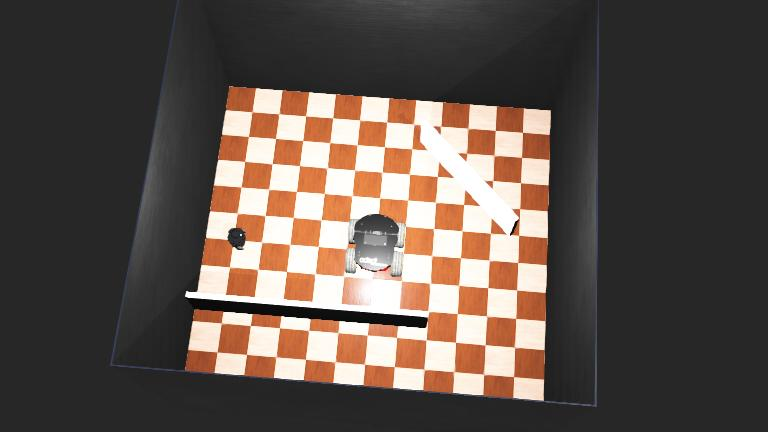
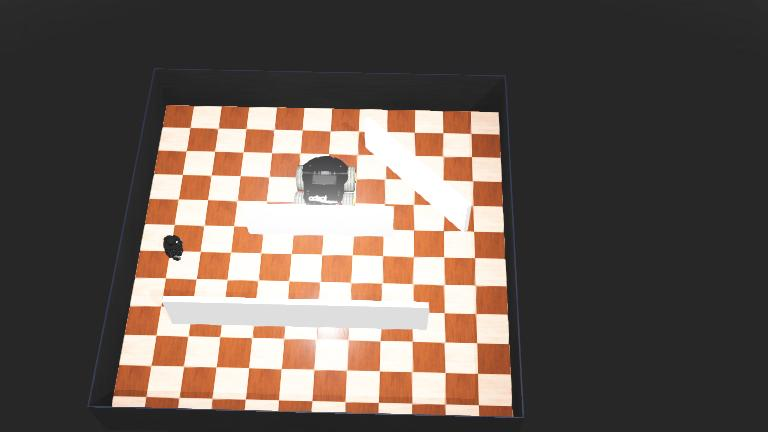
Updated to the best possible dynamic filter possible.

diff --git a/webot_graphSLAM.py b/webot_graphSLAM.py
@@ -1,16 +1,7 @@
-"""Full GraphSLAM controller — logic adapted from tawan-slam/slam.py.
-
-Sensors, motors, and (optional) automatic movement are wired inline here;
-this matches the existing PCR style rather than introducing a devices module.
-The SLAM math lives in ``mapping.graphSLAM`` (ported from tawan-slam/
-mapping/graph_omg.py) and uses ``mapping.icp.icp_match`` for loop closure.
-"""
-
 from dotenv import load_dotenv
 load_dotenv()
 
 from mapping.graphSLAM import GraphSession, draw_graph_map
-from image_processing.blob_detection import compute_motion_mask, get_dynamic_lidar_indices
 
 import os, sys, cv2
 import math
@@ -32,11 +23,8 @@ ROTATION_SIGN = 0.89
 
 # ── Manual control ───────────────────────────────────────────────────────────
 MAX_SPEED     = 6.28
-FORWARD_SPEED = MAX_SPEED * 0.55
-TURN_SPEED    = MAX_SPEED * 0.35
-
-# Webots TurtleBot3 camera is 60° wide; getFov() returns this at runtime.
-CAMERA_DEVICE_NAME = "mycamera"
+FORWARD_SPEED = MAX_SPEED * 0.85
+TURN_SPEED    = MAX_SPEED * 0.55
 
 # ── Sensor noise model (NOISE_ENABLED=False for ideal-sensor baseline) ──────
 NOISE_ENABLED              = True
@@ -53,14 +41,6 @@ os.environ["WEBOTS_CONTROLLER_URL"] = "TurtleBot3Burger"
 
 # ── Small helpers ────────────────────────────────────────────────────────────
 
-def _to_gray(bgra_arr):
-    """BGRA uint8 → greyscale uint8 via integer luminosity weights."""
-    b = bgra_arr[:, :, 0].astype(np.uint32)
-    g = bgra_arr[:, :, 1].astype(np.uint32)
-    r = bgra_arr[:, :, 2].astype(np.uint32)
-    return ((r * 306 + g * 601 + b * 117) >> 10).astype(np.uint8)
-
-
 def _build_lidar_angles(ray_count, lidar_fov):
     """Angle (rad, left = positive) for each lidar ray index — Webots sweep order."""
     if ray_count <= 0:
@@ -72,6 +52,86 @@ def _build_lidar_angles(ray_count, lidar_fov):
         ],
         dtype=float,
     )
+
+
+# ── LiDAR-based dynamic ray filter (360°) ───────────────────────────────────
+LIDAR_DYNAMIC_CHANGE_THRESHOLD = 0.15   # metres — must exceed expected ego-residual + sensor noise
+
+def _lidar_dynamic_mask(
+    prev_ranges,
+    prev_pose,
+    curr_ranges,
+    curr_pose,
+    lidar_angles,
+    max_range,
+    change_threshold=LIDAR_DYNAMIC_CHANGE_THRESHOLD,
+):
+    """Per-ray change detector that compensates for ego-motion.
+
+    Projects the previous scan's body-frame points into the current body
+    frame using the IMU-yaw + odometry delta, re-bins them by current ray
+    index, and flags rays whose actual range differs from the predicted
+    range by more than ``change_threshold``.
+
+    Returns a boolean array of length ``len(curr_ranges)`` (True = dynamic).
+    Falls back to all-False on the first tick or when ray-counts disagree.
+    """
+    n = len(curr_ranges)
+    if prev_ranges is None or len(prev_ranges) != n or prev_pose is None:
+        return np.zeros(n, dtype=bool)
+
+    prev_r = np.asarray(prev_ranges, dtype=float)
+    curr_r = np.asarray(curr_ranges, dtype=float)
+    angles = np.asarray(lidar_angles, dtype=float)
+
+    prev_valid = np.isfinite(prev_r) & (prev_r > 0.0) & (prev_r < max_range)
+    if not prev_valid.any():
+        return np.zeros(n, dtype=bool)
+
+    # Body-frame xy of previous returns.
+    px = prev_r * np.cos(angles)
+    py = prev_r * np.sin(angles)
+
+    # Transform prev body frame → current body frame.
+    # rotation by (prev_theta - curr_theta), translation = prev origin
+    # expressed in current body frame.
+    dtheta = prev_pose[2] - curr_pose[2]
+    c_d, s_d = math.cos(dtheta), math.sin(dtheta)
+    dx_w = prev_pose[0] - curr_pose[0]
+    dy_w = prev_pose[1] - curr_pose[1]
+    c_c, s_c = math.cos(curr_pose[2]), math.sin(curr_pose[2])
+    tx =  c_c * dx_w + s_c * dy_w
+    ty = -s_c * dx_w + c_c * dy_w
+    qx = c_d * px - s_d * py + tx
+    qy = s_d * px + c_d * py + ty
+
+    pred_range = np.hypot(qx, qy)
+    pred_angle = np.arctan2(qy, qx)
+
+    # Map predicted angles back to ray indices. Webots sweeps high → low,
+    # so step is negative; handle either ordering generically.
+    if n > 1:
+        step = angles[1] - angles[0]
+        if step == 0.0:
+            return np.zeros(n, dtype=bool)
+        idx_f = (pred_angle - angles[0]) / step
+    else:
+        idx_f = np.zeros_like(pred_angle)
+    idx = np.round(idx_f).astype(int)
+    in_range = (idx >= 0) & (idx < n) & prev_valid
+
+    # Reduce: keep nearest predicted return per current ray bin.
+    predicted = np.full(n, np.inf, dtype=float)
+    for i in np.where(in_range)[0]:
+        j = int(idx[i])
+        if pred_range[i] < predicted[j]:
+            predicted[j] = pred_range[i]
+
+    curr_valid = np.isfinite(curr_r) & (curr_r > 0.0) & (curr_r < max_range)
+    pred_valid = np.isfinite(predicted)
+    both_valid = curr_valid & pred_valid
+    diff = np.abs(curr_r - predicted)
+    return both_valid & (diff > change_threshold)
 
 
 def run_robot():
@@ -108,16 +168,6 @@ def run_robot():
     imu = robot.getDevice("inertial unit")
     imu.enable(timestep)
 
-    # ── Camera (optional — graceful fallback if absent) ───────────────────
-    camera     = robot.getDevice(CAMERA_DEVICE_NAME)
-    has_camera = camera is not None
-    if has_camera:
-        camera.enable(timestep)
-        cam_width  = camera.getWidth()
-        cam_height = camera.getHeight()
-        cam_fov    = camera.getFov()
-    prev_gray = None
-
     # ── Noise RNG + IMU helper ────────────────────────────────────────────
     rng = np.random.default_rng(NOISE_SEED)
 
@@ -146,6 +196,10 @@ def run_robot():
     odom_x = 0.0
     odom_y = 0.0
     odom_theta = _get_imu_yaw()
+
+    # ── Previous-tick state for the LiDAR-based dynamic-ray filter ──────
+    prev_lidar_ranges = None
+    prev_lidar_pose   = None
 
     # ── Pose-graph session (tawan-slam logic) ─────────────────────────────
     session = GraphSession(
@@ -222,31 +276,20 @@ def run_robot():
             ranges_count = len(ranges)
             lidar_angles = _build_lidar_angles(ranges_count, lidar_fov)
 
-        # ── Camera motion mask → dynamic-ray filter ──────────────────────
+        # ── LiDAR-based 360° dynamic detection ───────────────────────────
         # Dynamic rays are set to inf so mapping.graphSLAM.scan_to_points
         # drops them (invalid) — moving objects never enter the SLAM map.
-        if has_camera:
-            raw = camera.getImage()
-            if raw:
-                bgra = np.frombuffer(raw, dtype=np.uint8).reshape(
-                    (cam_height, cam_width, 4)
-                )
-                curr_gray = _to_gray(bgra)
-                if prev_gray is not None:
-                    motion_mask  = compute_motion_mask(prev_gray, curr_gray, threshold=20)
-                    dynamic_mask = get_dynamic_lidar_indices(
-                        motion_mask, cam_fov, lidar_angles, cam_width
-                    )
-                else:
-                    dynamic_mask = np.zeros(ranges_count, dtype=bool)
-                prev_gray = curr_gray
-            else:
-                dynamic_mask = np.zeros(ranges_count, dtype=bool)
-        else:
-            dynamic_mask = np.zeros(ranges_count, dtype=bool)
+        lidar_dyn_mask = _lidar_dynamic_mask(
+            prev_lidar_ranges, prev_lidar_pose,
+            ranges, pose_vec,
+            lidar_angles, lidar_max_range,
+        )
+        # Cache the *raw* (unfiltered) scan + pose for next tick's predictor.
+        prev_lidar_ranges = list(ranges)
+        prev_lidar_pose   = pose_vec.copy()
 
         scan_array = np.asarray(ranges, dtype=float).copy()
-        scan_array[dynamic_mask] = float('inf')
+        scan_array[lidar_dyn_mask] = float('inf')
 
         # ── GraphSLAM update ─────────────────────────────────────────────
         optimized = session.step(pose_vec, scan_array)
@@ -295,9 +338,6 @@ def run_robot():
                     (10, 50), cv2.FONT_HERSHEY_SIMPLEX, 0.6, (0, 255, 0), 1)
         cv2.putText(live_map, f"Loop closures: {num_lc}",
                     (10, 75), cv2.FONT_HERSHEY_SIMPLEX, 0.6, (0, 220, 0), 1)
-        if has_camera:
-            cv2.putText(live_map, "Sensor fusion: ON",
-                        (10, 100), cv2.FONT_HERSHEY_SIMPLEX, 0.5, (255, 200, 0), 1)
 
         cv2.imshow("Full GraphSLAM Map", live_map)
 

diff --git a/mapping/graphSLAM.py b/mapping/graphSLAM.py
@@ -1,21 +1,3 @@
-"""Pose-graph SLAM ported from tawan-slam/mapping/graph_omg.py.
-
-Structure and algorithm follow the reference implementation:
-    - Node / Edge primitives.
-    - GraphSLAM: Gauss-Newton optimiser (numerical Jacobians, scalar weights).
-      Node 0 is anchored with a large weight rather than being removed from the
-      state — matches the reference behaviour.
-    - GraphSession: online driver that adds a keyframe whenever the robot has
-      moved / rotated past a threshold, builds odometry edges, and attempts two
-      loop-closure strategies per tick:
-        1. Proximity to node 0 (once past a warm-up).
-        2. ICP of the current lidar scan against any older, nearby node.
-      Any successful loop closure triggers a full graph optimisation.
-
-External-library policy: numpy only — no scipy / sklearn / cv2 geometry.
-cv2.imshow / cv2.waitKey / cv2.putText stay in the caller.
-"""
-
 from __future__ import annotations
 
 import math
@@ -25,9 +7,6 @@ from typing import Literal, Optional
 import numpy as np
 
 from .icp import icp_match
-
-
-# ── SE(2) helpers ────────────────────────────────────────────────────────────
 
 def wrap_angle(a: float) -> float:
     return math.atan2(math.sin(a), math.cos(a))
@@ -226,9 +205,13 @@ class GraphSession:
         odom_weight: float = 1.0,
         loop_weight: float = 5.0,
         optimize_iterations: int = 10,
+        min_anchor_translation: float = 0.02,
+        allow_rotation_only_keyframes: bool = False,
     ) -> None:
         self.node_dist_thresh = node_dist_thresh
         self.node_angle_thresh = node_angle_thresh
+        self.min_anchor_translation = min_anchor_translation
+        self.allow_rotation_only_keyframes = allow_rotation_only_keyframes
         self.loop_radius = loop_radius
         self.loop_warmup_nodes = loop_warmup_nodes
         self.icp_radius = icp_radius
@@ -256,15 +239,35 @@ class GraphSession:
     # ---- helpers ----------------------------------------------------------
 
     def _should_add(self, odom: np.ndarray) -> bool:
+        """Translation-first keyframe gate.
+
+        A new keyframe is only inserted when the robot has translated past
+        ``node_dist_thresh``. Rotation alone never triggers a keyframe by
+        default — pure in-place rotation would otherwise stack near-duplicate
+        scans at slightly drifting (x, y) (IMU + shared-mode encoder noise)
+        and smear the rendered map. The angle threshold still fires as a
+        secondary trigger, but only once the robot has *also* moved at least
+        ``min_anchor_translation`` since the last keyframe (so curving paths
+        get rotation-spaced keyframes; standing-and-spinning does not).
+
+        Set ``allow_rotation_only_keyframes=True`` to recover the original
+        tawan-slam behaviour for debugging.
+        """
         if self._last_odom_pose is None:
             return True
         dx = odom[0] - self._last_odom_pose[0]
         dy = odom[1] - self._last_odom_pose[1]
-        dtheta = wrap_angle(odom[2] - self._last_odom_pose[2])
-        return (
-            math.hypot(dx, dy) >= self.node_dist_thresh
-            or abs(dtheta) >= self.node_angle_thresh
-        )
+        translation = math.hypot(dx, dy)
+        dtheta = abs(wrap_angle(odom[2] - self._last_odom_pose[2]))
+
+        if translation >= self.node_dist_thresh:
+            return True
+        if dtheta >= self.node_angle_thresh and (
+            self.allow_rotation_only_keyframes
+            or translation >= self.min_anchor_translation
+        ):
+            return True
+        return False
 
     def _cached_points(self, node_id: int) -> Optional[np.ndarray]:
         if node_id in self._scan_points_cache:

diff --git a/mapping/icp.py b/mapping/icp.py
@@ -1,11 +1,3 @@
-"""Lu & Milios style 2-D ICP.
-
-Ported from https://github.com/richardos/icp but without sklearn:
-nearest-neighbour search is a vectorised numpy argmin. Exposes ``icp_match``
-which wraps ``icp`` with an initial-guess warm start and a Kabsch recovery of
-the full (init + refinement) SE(2) transform plus a mean residual.
-"""
-
 from __future__ import annotations
 
 import math

diff --git a/AutomaticMovement/back_and_forth.py b/AutomaticMovement/back_and_forth.py
@@ -1,6 +1,6 @@
 """
 back_and_forth.py — Pioneer 3-AT controller that drives forward and backward
-every 5 seconds in a continuous loop.
+every 2 seconds in a continuous loop.
 """
 
 from dotenv import load_dotenv
@@ -17,8 +17,8 @@ sys.path.append(os.path.join(webots_home, "lib", "controller", "python"))
 from controller import Robot  # type: ignore
 
 MAX_SPEED = 6.28
-DRIVE_SPEED = MAX_SPEED * 0.35
-TOGGLE_INTERVAL = 5.0  # seconds before switching direction
+DRIVE_SPEED = MAX_SPEED * 0.75
+TOGGLE_INTERVAL = 0.75  # seconds before switching direction
 
 os.environ["WEBOTS_CONTROLLER_URL"] = "Pioneer 3-AT"
 def auto():